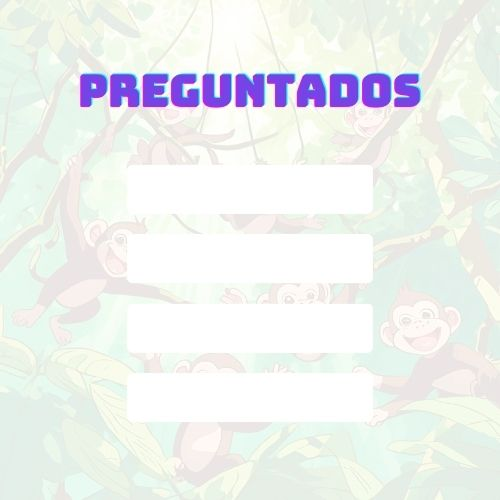
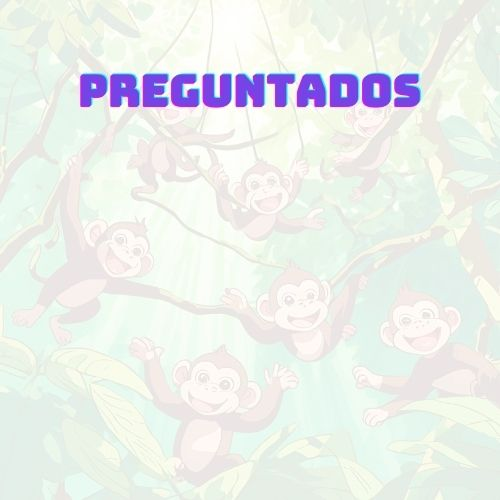
Ranking muestra jugadores en ambas columnas, se modifico las imagenes sacando los bloques donde van los textos en menu y preguntas

diff --git a/Puntuaciones.py b/Puntuaciones.py
@@ -69,30 +69,19 @@ def mostrar_rankings(pantalla:pygame.Surface,cola_eventos:list[pygame.event.Even
     FUENTE_22.render("Ranking", True, COLOR_BLANCO)
     for i, jugador in enumerate(ranking_jugadores):
         texto = f"{i+1}.{jugador['nombre']} - {jugador['puntuacion']} puntos"
+        texto_dos = f"{i+6}.{jugador['nombre']} - {jugador['puntuacion']} puntos"
+        
         texto_renderizado = FUENTE_22.render(texto, True, COLOR_NEGRO)
-        pantalla.blit(texto_renderizado,(100,100+i*40))
+        texto_renderizado_dos = FUENTE_22.render(texto_dos, True, COLOR_NEGRO)
         
-        
+        if i <= 4:
+            pantalla.blit(texto_renderizado,(50,128+i*51))
+            if i <= 9:  
+                pantalla.blit(texto_renderizado_dos,(268,128+i*51))
+             
   
     # posicion_jugadores=[(50,128),(50,179),(50,230),(50,281),(50,332),(268,128),(268,179),(268,230),(268,281),(268,332)]
-        
-    # #Columna izquierda
-    # jugadores["rectangulo"] = pantalla.blit(jugadores["superficie"],(50,128))
-    # jugadores["rectangulo"] = pantalla.blit(jugadores["superficie"],(50,179))
-    # jugadores["rectangulo"] = pantalla.blit(jugadores["superficie"],(50,230))
-    # jugadores["rectangulo"] = pantalla.blit(jugadores["superficie"],(50,281))
-    # jugadores["rectangulo"] = pantalla.blit(jugadores["superficie"],(50,332))
-
-    # #Columna derecha
-    # jugadores["rectangulo"] = pantalla.blit(jugadores["superficie"],(268,128))
-    # jugadores["rectangulo"] = pantalla.blit(jugadores["superficie"],(268,179))
-    # jugadores["rectangulo"] = pantalla.blit(jugadores["superficie"],(268,230))
-    # jugadores["rectangulo"] = pantalla.blit(jugadores["superficie"],(268,281))
-    # jugadores["rectangulo"] = pantalla.blit(jugadores["superficie"],(268,332))
-    
-        
-    mostrar_texto(jugadores["superficie"], "PATO",(70,10), FUENTE_18, COLOR_NEGRO)
-            
+             
     return retorno
 
 
